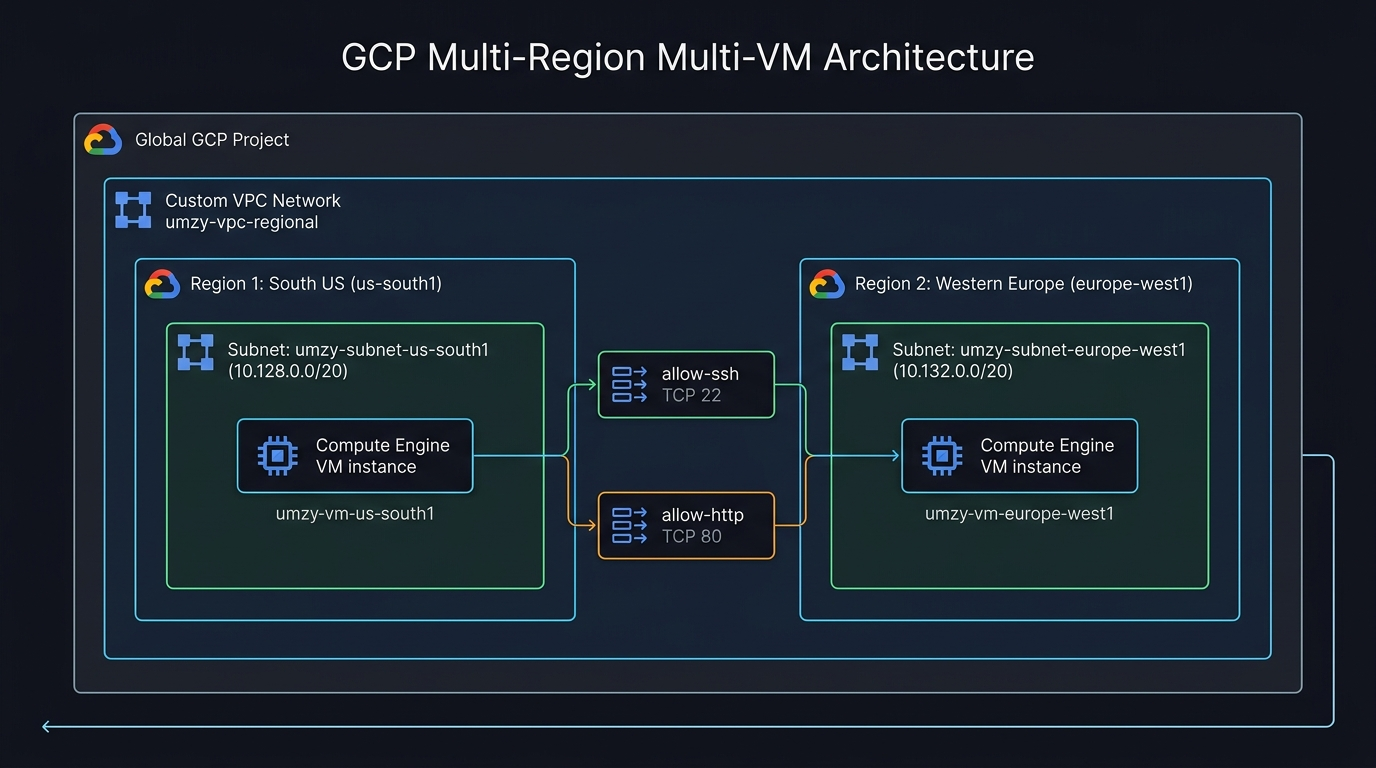
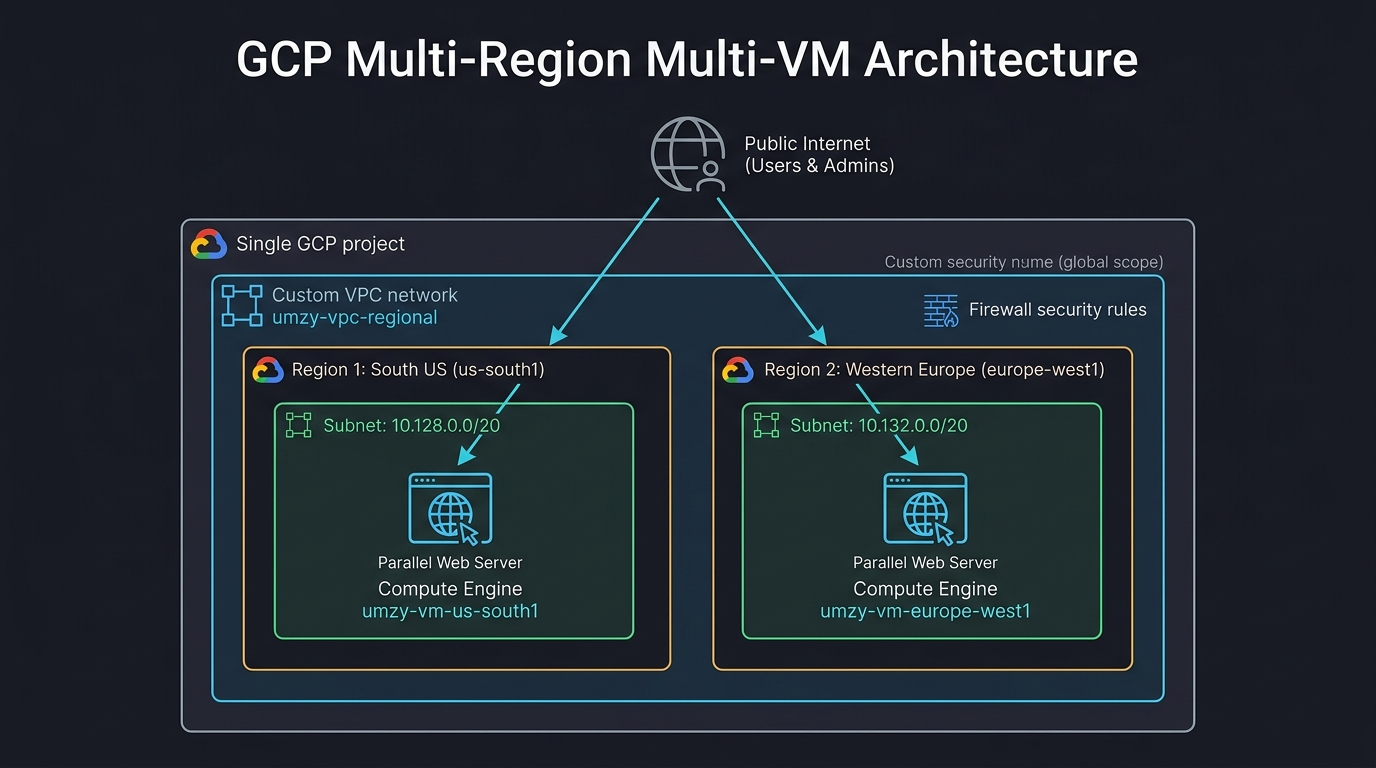
feat: implement multi-region architecture (umzy-multivm-regional), scenario profiles, and diagrams2

diff --git a/docs/ARCHITECTURE_DIAGRAMS.md b/docs/ARCHITECTURE_DIAGRAMS.md
@@ -161,8 +161,8 @@ graph TD
         end
     end
 
-    A -->|TCP 22| FW1
-    B -->|TCP 80| FW2
+    A -->|TCP 22 (SSH Ingress)| FW1
+    B -->|TCP 80 (HTTP Ingress)| FW2
     FW1 -->|Matches Tag: ssh| VM1
     FW1 -->|Matches Tag: ssh| VM2
     FW2 -->|Matches Tag: web-server| VM1
